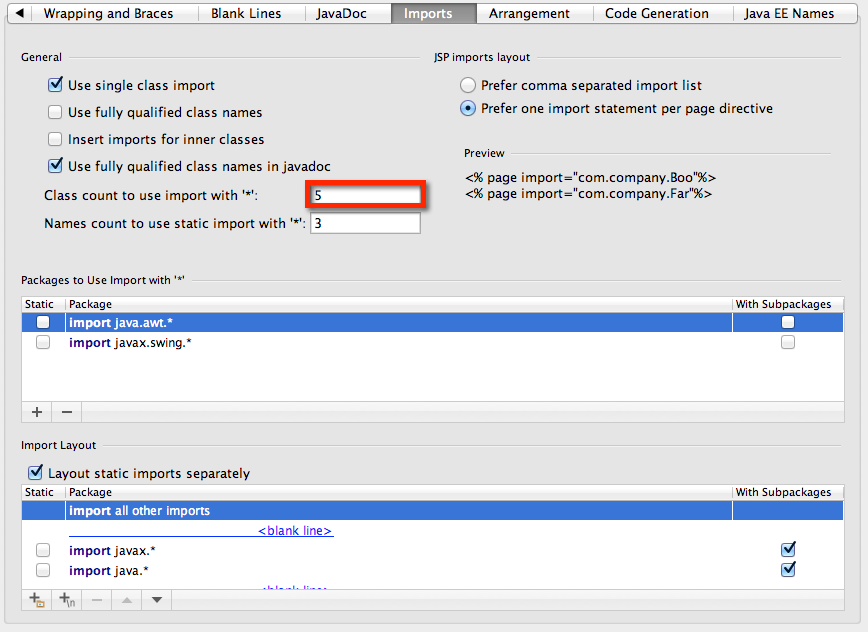
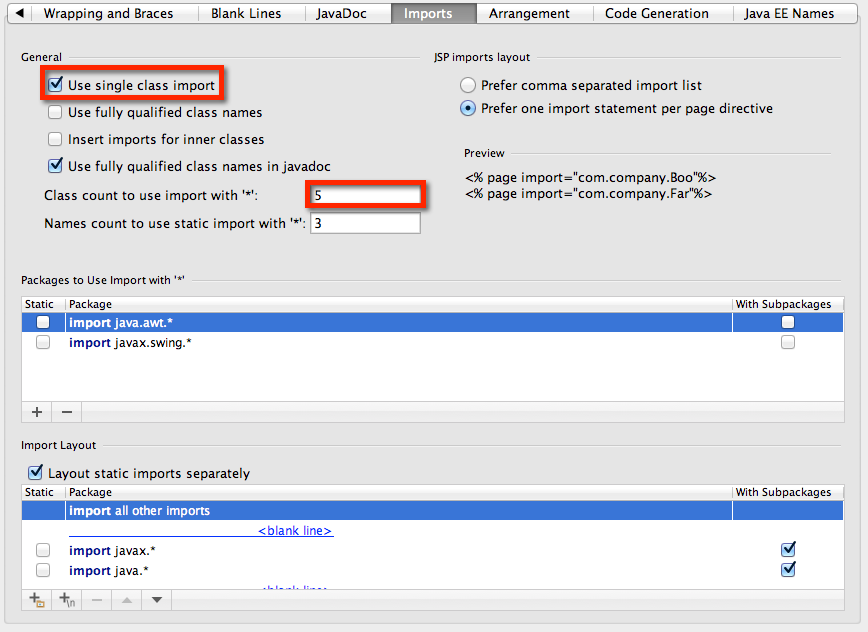
added another option

Changed region(s): [[0.0311, 0.0902, 0.28, 0.1804]]

diff --git a/_posts/2014-09-15-import-all-intellij-idea.md b/_posts/2014-09-15-import-all-intellij-idea.md
@@ -60,8 +60,8 @@ Under **Preferences \| Code Style \| Java**, we can define how we want importing
 ![Import Settings]({{ site.images}}/import-all-2.png)
 
 
-<br/>
-The value in the red box indicates what number of imports are required for IntelliJ IDEA to replace each individual entry with an import all. By default this value is set to 5. By
+Unchecking the "Use Single Class import" will make IntelliJ IDEA use a single import statement. Alternatively, we can also define this behaviour based on the number of imported types using
+the class count, which is set to 5 by default. By
 setting it to 1 we can instruct IntelliJ IDEA to always import everything. Setting it to 2 will have it switch to all one the second entry, and so on and so forth.
 
 
